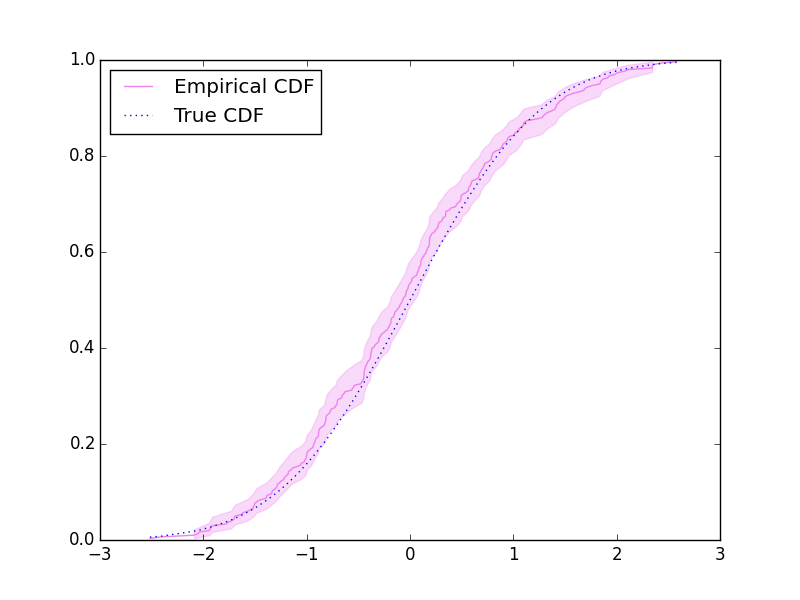
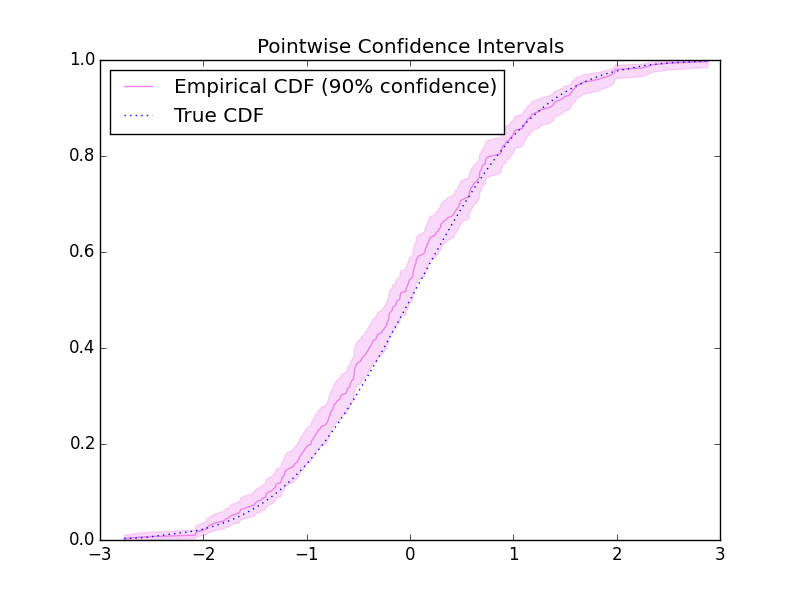
Added DKW inequality, refactored code more cleanly to support additional estimators in the future.

Changed region(s): [[0.1562, 0.06, 0.9062, 0.9]]

diff --git a/CDF_confidence.py b/CDF_confidence.py
@@ -18,14 +18,18 @@
 from scipy.stats import binom, beta
 from scipy import interpolate
 
-# Note: this is the correct (pointwise) distribution
+# The beta distribution is the correct (pointwise) distribution
+# across *quantiles* for a given *data point*; if you're not
+# sure, this is probably the estimator you want to use. 
 def CDF_error_beta(n,target_quantile,quantile_quantile):
 	k=target_quantile*n
 	return(beta.ppf(quantile_quantile,k,n+1-k))
 
-# Warning: Bootstrapping fails for 0 and 1 quantile; as
-# quantile approaches extremes (generally, within 1/sqrt(n)
-# either end of n sample data), things get bad.
+# Boot strapping can give you a distribution across *values* for a given
+# *quantile*.  Warning: Although it is asymptotically correct for quantiles
+# in (0,1), bootstrapping fails for the extreme values (i.e. for quantile=0
+# or 1.  Moreover, you should be suspicious of confidence intervals for
+# points within 1/sqrt(data size).
 def CDF_error_analytic_bootstrap(n,target_quantile,quantile_quantile):
 	target_count=int(target_quantile*float(n))
 
@@ -56,20 +60,33 @@ def CDF_error_analytic_bootstrap(n,target_quantile,quantile_quantile):
 
 	return(prob_index)
 
+# Compute Dvoretzky-Kiefer-Wolfowitz confidence bands.
+def CDF_error_DKW_band(n,target_quantile,quantile_quantile):
+	# alpha is the total confidence interval size, e.g. 90%.
+	alpha=1.0-2.0*np.abs(0.5-quantile_quantile)
+	epsilon=np.sqrt(np.log(2.0/alpha)/(2.0*float(n)))
+	if quantile_quantile<0.5:
+		return(max((0,target_quantile-epsilon)))
+	else:
+		return(min((1,target_quantile+epsilon)))
+
+
 import matplotlib.pyplot as plt
 import numpy as np
 # Plot empirical CDF with confidence intervals.
-#   num_quantiles=100 means estimate confidence interval at 1%,2%,3%,...,99%.
+#   num_quantile_regions=100 means estimate confidence interval at 1%,2%,3%,...,99%.
 #   confidence=0.90 mean plot the confidence interval range [5%-95%]
-def plot_CDF_confidence(data,num_quantile_regions=100,confidence=0.90,plot_ecdf=True,
-	data_already_sorted=False,color='green',label='',alpha=0.3,estimator_name='exact'):
+def plot_CDF_confidence(data,num_quantile_regions='all',confidence=0.90,plot_ecdf=True,
+	data_already_sorted=False,color='green',label='',alpha=0.3,estimator_name='beta'):
 	data=np.array(data)
 	if len(np.shape(data))!=1:
 		raise NameError('Data must be 1 dimensional!')
-	if len(data)<num_quantile_regions:
-		num_quantiles=len(data)
+	if num_quantile_regions>len(data)+1:
+		num_quantile_regions=len(data)+1
 	if len(data)<2:
 		raise NameError('Need at least 2 data points!')
+	if num_quantile_regions=='all':
+		num_quantile_regions=len(data)
 	if num_quantile_regions<2:
 		raise NameError('Need num_quantile_regions > 1 !')
 	if not data_already_sorted:
@@ -81,24 +98,42 @@ def plot_CDF_confidence(data,num_quantile_regions=100,confidence=0.90,plot_ecdf=
 	
 	quantile_list=np.linspace(1.0/float(num_quantile_regions),1.0-(1.0/float(num_quantile_regions)),num=num_quantile_regions-1)
 
+	# Some estimators give confidence intervals on the *quantiles*, 
+	# others give intervals on the *data*; which do we have?
+	if estimator_name=='analytic bootstrap':
+		estimator_type='data'
+		CDF_error_function=CDF_error_analytic_bootstrap
+	elif estimator_name=='DKW':
+		estimator_type='quantile'
+		CDF_error_function=CDF_error_DKW_band
+	elif estimator_name=='beta':
+		estimator_type='quantile'
+		CDF_error_function=CDF_error_beta
+	else:
+		raise NameError('Unknown error estimator name %s'%(estimator_name))
+
+	if estimator_type=='quantile':
+		if num_quantile_regions==len(data)+1:
+			interpolated_quantile_list=data
+		else:
+			invCDF_interp=interpolate.interp1d(emp_quantile_list, data)
+			interpolated_quantile_list=invCDF_interp(quantile_list)
+
 	low =np.zeros(np.shape(quantile_list))
 	high=np.zeros(np.shape(quantile_list))
 	emp_quantile_list=np.linspace(1.0/float(len(data)+1),1.0-(1.0/float(len(data)+1)),num=len(data))
-	if estimator_name=='exact':
-		invCDF_interp=interpolate.interp1d(emp_quantile_list, data)
-		CDF_error_function=CDF_error_beta
+	if estimator_type=='quantile':
 		for i,q in enumerate(quantile_list):
 			low[i] =CDF_error_function(len(data),q, low_conf)
 			high[i]=CDF_error_function(len(data),q,high_conf)
-		plt.fill_between(invCDF_interp(quantile_list),low,high,alpha=alpha,color=color)		
-	elif estimator_name=='analytic bootstrap':
-		CDF_error_function=CDF_error_analytic_bootstrap
+		plt.fill_between(interpolated_quantile_list,low,high,alpha=alpha,color=color)		
+	elif estimator_type=='data':
 		for i,q in enumerate(quantile_list):
 			low[i] =data[CDF_error_function(len(data),q, low_conf)]
 			high[i]=data[CDF_error_function(len(data),q,high_conf)]
 		plt.fill_betweenx(quantile_list,low,high,alpha=alpha,color=color)		
 	else:
-		raise NameError('Unknown error estimator name %s'%(estimator))		
+		raise NameError('Unknown error estimator type %s'%(estimator_type))		
 
 	if plot_ecdf:
 		plt.plot(data,emp_quantile_list,label=label,color=color)

diff --git a/CDF_example.py b/CDF_example.py
@@ -13,10 +13,20 @@ Cc.plot_CDF_confidence(x)
 
 # Do fancier plot
 plt.figure()
-Cc.plot_CDF_confidence(x,label='Empirical CDF',color='violet')
+Cc.plot_CDF_confidence(x,label='Empirical CDF (90% confidence)',color='violet')
 
 x_sorted=np.sort(x)
 plt.plot(x_sorted,norm.cdf(x_sorted),':',label='True CDF')
 plt.legend(loc='best')
+plt.title('Pointwise Confidence Intervals')
+
+# Do another fancier plot
+plt.figure()
+Cc.plot_CDF_confidence(x,label='Empirical CDF (90% confidence)',estimator_name='DKW')
+
+x_sorted=np.sort(x)
+plt.plot(x_sorted,norm.cdf(x_sorted),':',label='True CDF')
+plt.legend(loc='best')
+plt.title('Confidence Bands (DKW inequality)')
 
 plt.show()
